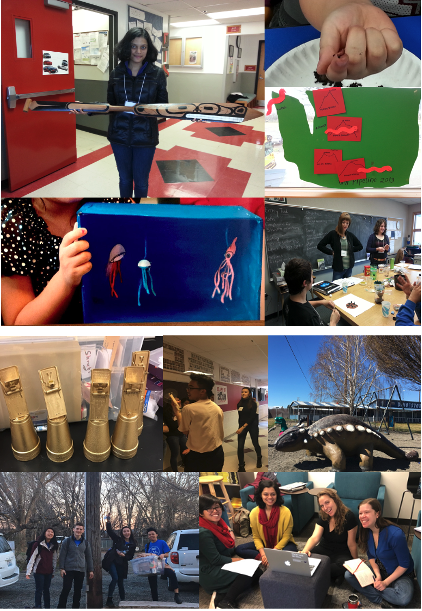
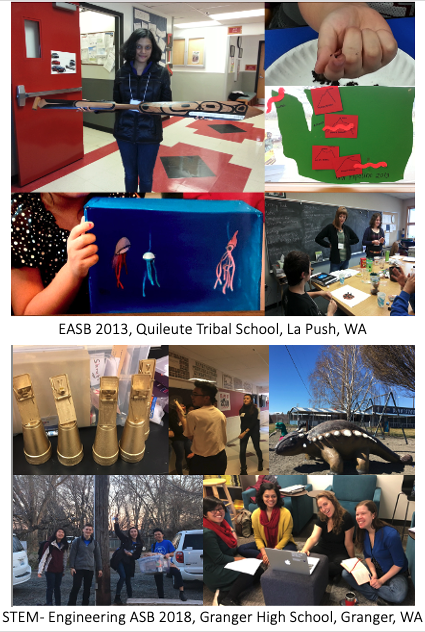
edits

diff --git a/index.html b/index.html
@@ -1,13 +1,12 @@
 ---
 layout: splash
 author_profile: true
-title: "Gratitude, Identity and Values"
+title: "Gratitude, Identity 
+and Values"
 header:
   overlay_image: /assets/images/mosaic.jpeg
-  overlay_color: "#000"
-  overlay_filter: 0.25
   caption: A mosaic of experiences (abstract self-portait)
-excerpt: "                                                         "
+excerpt: <br> <br> <br>
 ---
 <figure style="width: 250px" class="align-right">
   <img src="assets/images/UW_2012_2020.png" alt="">
@@ -27,7 +26,7 @@ The Husky experience has given me countless opportunities to learn, fail, grow a
 
 In addition to identifying as a heterosexual woman of color, my Husky experiences have revealed the following facets of my identity:
 
-<figure style="width: 500px">
+<figure style="width: 500px" class="align-center">
   <img src="assets/images/identities.png" alt="">
 </figure> 
 

diff --git a/_pages/asb.md b/_pages/asb.md
@@ -15,9 +15,8 @@ The Alternative Spring Break (ASB) Program has catalyzed my unique UW experience
 
 <h1>The Beginning</h1>
 
-<figure style="width: 300px" class="align-right">
+<figure style="width: 500px" class="align-right">
   <img src="{{ site.url }}{{ site.baseurl }}/assets/images/asb_1317.png" alt="">
-  <figcaption>EASB 2013, Quileute Tribal School, La Push, WA (top). STEM- Engineering ASB 2018, Granger High School, Granger, WA (bottom)</figcaption>
 </figure>
 
 I first participated in the Environmental ASB (EASB) in 2013 in my freshman year. During spring break, my team worked with elementary and middle school students at the Quileute Tribal School in La Push, teaching them about Washington's diverse environment. Simply the wonder that students expressed as they engaged with our activities was sufficient to convince me that this first experience as an educator won't be my last.

diff --git a/_pages/engine.md b/_pages/engine.md
@@ -8,7 +8,7 @@ header:
 
 <h1>The Beginning</h1>
 
-<figure style="width: 300px" class="align-right">
+<figure style="width: 500px" class="align-right">
   <img src="{{ site.url }}{{ site.baseurl }}/assets/images/engine.png" alt="">
   <figcaption>My senior capstone student design team from 2015 </figcaption>
 </figure>

diff --git a/_pages/future.md b/_pages/future.md
@@ -1,6 +1,6 @@
 ---
 layout: splash
-author_profile: true
+permalink: /future/
 title: " "
 header:
   overlay_image: /assets/images/header_image.jpg
